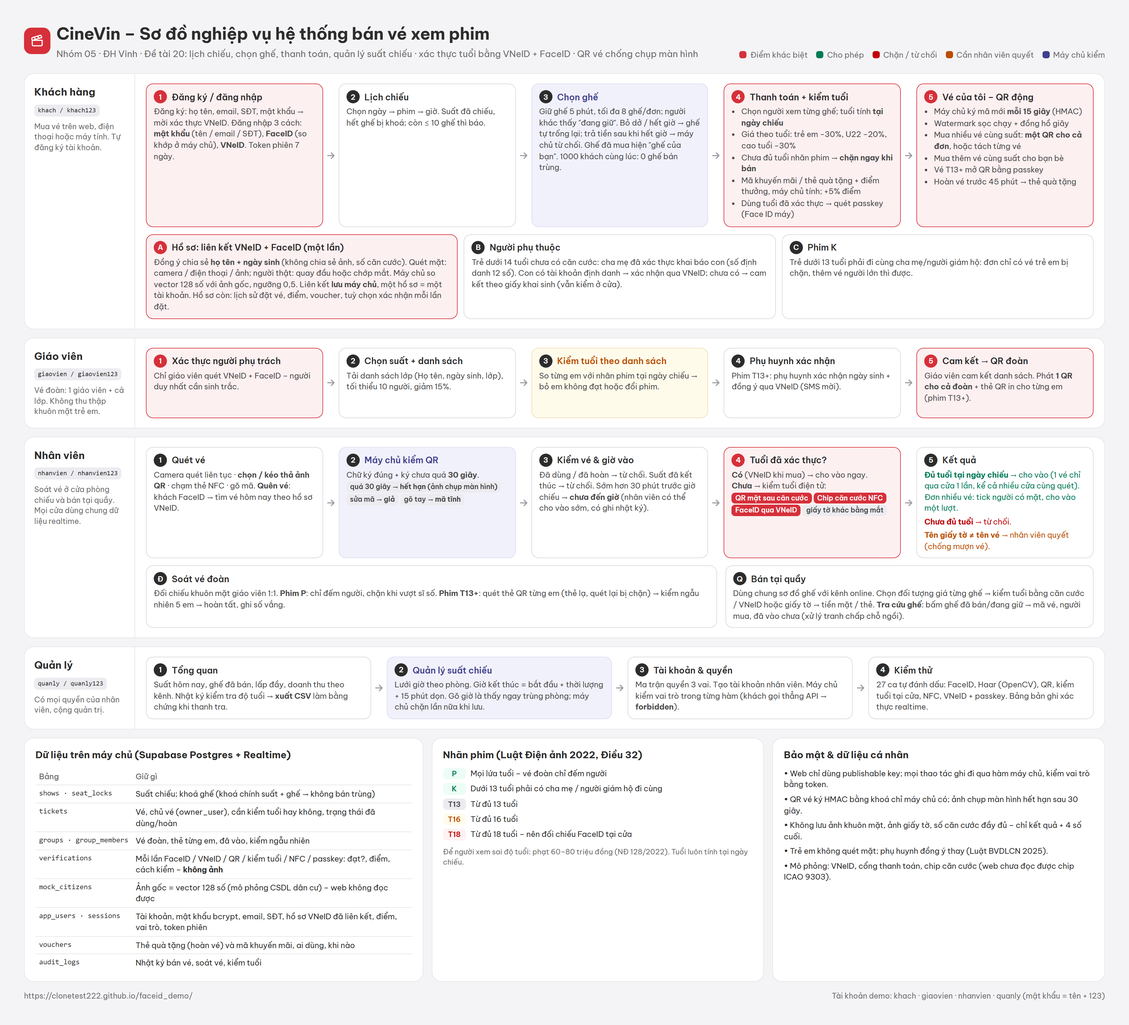
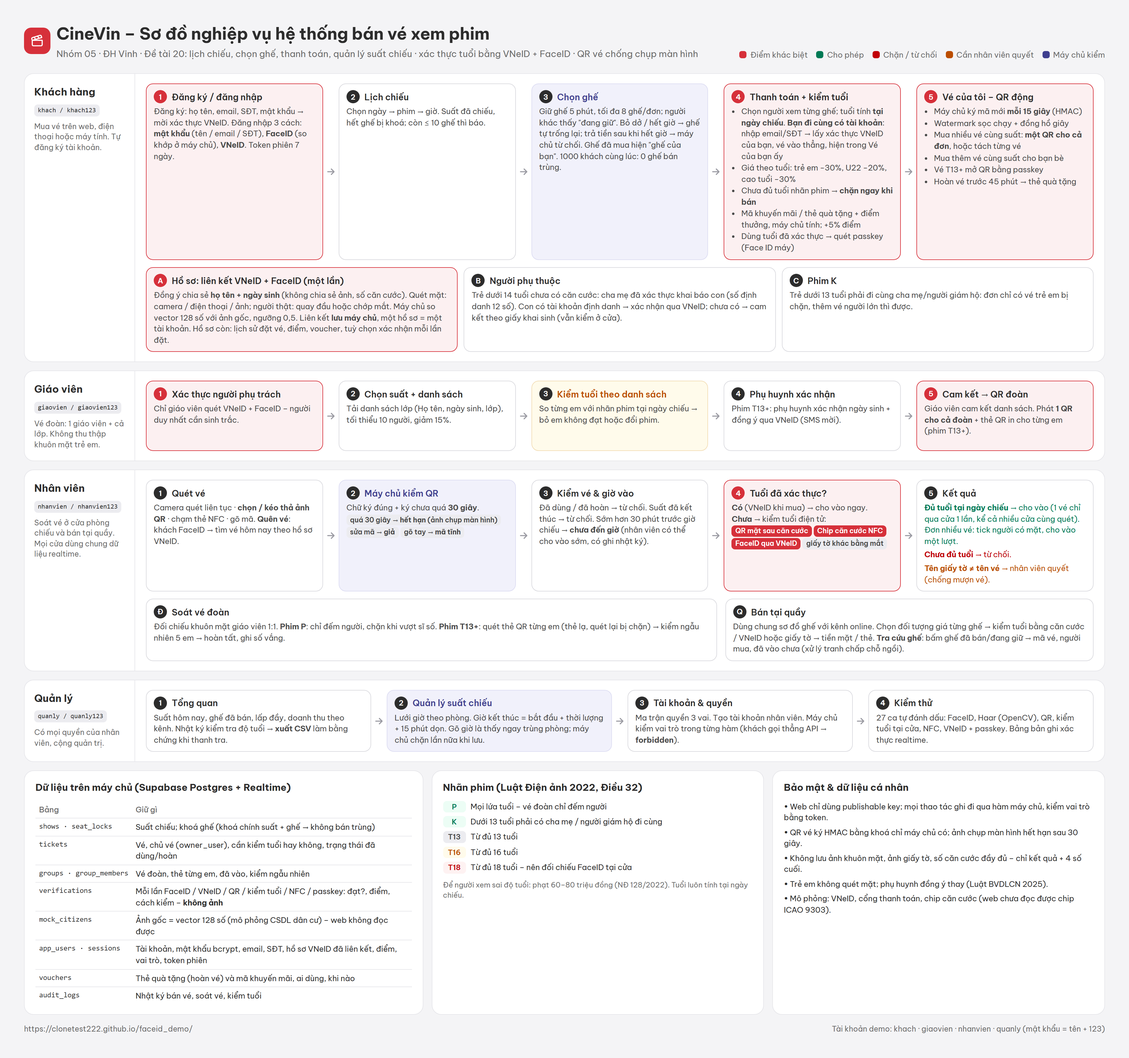
Bạn đi cùng có tài khoản: lấy xác thực VNeID của bạn, vé vào thẳng, hiện trong Vé của bạn
- Thanh toán: mục "Bạn đi cùng có tài khoản CineVin" → nhập email/SĐT/tên đăng nhập
  → máy chủ trả tên, đã xác thực VNeID chưa, tuổi tại ngày chiếu (không lộ ngày sinh,
  không tra được tài khoản nhân viên)
- Bán đơn: máy chủ chốt vé của bạn đã xác thực → verified, không kiểm tuổi ở cửa;
  chưa đủ tuổi nhãn phim → chặn; chưa xác thực → kiểm giấy tờ tại cửa
- Vé gắn viewer_user: hiện trong "Vé của tôi" của bạn kèm QR riêng, ghi "do @… mua cho bạn";
  bạn quên vé vẫn FaceID tìm được; QR cả đơn chỉ gom vé mình là chủ
- Migration 005 thêm companion_check, _apply_companions, ticket_qr cho viewer; sqltest 53 ca

diff --git a/js/views-customer.js b/js/views-customer.js
@@ -113,14 +113,18 @@ function vThanhToan() {
   const sh = show(d.showId), f = film(sh.filmId);
   if (!d.assign || d.assign.length !== d.seats.length) d.assign = d.seats.map((_, i) => ({ viewer: { kind: S.user.linked && i === 0 ? "self" : "other" } }));
   const chk = checkOrder(sh, d.assign); let total = 0;
-  const opts = [["other", "Người đi cùng (chưa xác thực)"], ["self", `Tôi – ${S.user.name}${S.user.linked ? "" : " (chưa xác thực)"}`], ...S.dependents.map(x => ["dep:" + x.id, `Con – ${x.name} (${ageAt(x.dob, sh.start)} tuổi)`])];
+  const friendPending = d.assign.some(a => a.viewer.kind === "friend" && !a.viewer.user);
+  const opts = [["other", "Người đi cùng (chưa xác thực)"], ["self", `Tôi – ${S.user.name}${S.user.linked ? "" : " (chưa xác thực)"}`], ...S.dependents.map(x => ["dep:" + x.id, `Con – ${x.name} (${ageAt(x.dob, sh.start)} tuổi)`]), ...(Remote.v5 ? [["friend", "Bạn đi cùng có tài khoản CineVin…"]] : [])];
   const rows = d.seats.map((sid, i) => {
     const a = d.assign[i], r = chk.res[i], aud = audience(r.verified || r.level === "Cam kết" ? r.age : null), price = seatPrice(sh, sid) * (1 - aud.disc);
     if (!r.block) total += price;
     const val = a.viewer.kind === "dep" ? "dep:" + a.viewer.depId : a.viewer.kind;
+    const fr = a.viewer.kind === "friend" ? (a.viewer.user
+        ? `<div class="mt-2 flex items-center gap-2 rounded-xl border border-border p-2 text-sm">${avatar(a.viewer.name)}<span class="min-w-0 flex-1"><span class="block truncate font-medium">${esc(a.viewer.name)} <span class="font-mono text-xs text-muted">@${esc(a.viewer.user)}</span></span><span class="block text-xs text-muted">${a.viewer.verified ? `Đã xác thực VNeID · ${a.viewer.age} tuổi tại ngày chiếu · vé vào thẳng` : "Chưa xác thực VNeID – kiểm tra giấy tờ tại cửa"}</span></span>${a.viewer.verified ? tone("VNeID", "ok") : tone("Chưa xác thực", "warn")}<button type="button" class="${B.icon} size-8" data-act="friend-clear" data-i="${i}" aria-label="Bỏ">${ic("x")}</button></div>`
+        : `<div class="mt-2 flex gap-2"><input id="friend-${i}" placeholder="Email, SĐT hoặc tên đăng nhập của bạn" autocapitalize="none" class="${INPUT}"><button type="button" class="${B.outline} min-h-11 md:min-h-10 shrink-0" data-act="friend-check" data-i="${i}">Kiểm tra</button></div><p class="mt-1 text-xs text-muted">Vé sẽ hiện trong “Vé của tôi” của bạn ấy; đã xác thực VNeID thì ở cửa không cần giấy tờ.</p>`) : "";
     return `<div class="grid gap-2 border-b border-border py-3 last:border-0 sm:grid-cols-[56px_minmax(0,1fr)_auto] sm:items-center sm:gap-3">
       <span class="font-mono text-sm font-medium">${sid}</span>
-      <div class="min-w-0">${selectBox("viewer-" + i, opts, val, { act: "assign", extra: `data-i="${i}"` })}<p class="mt-1 text-xs ${r.block ? "text-[var(--error-text)]" : "text-muted"}">${r.block ? esc(r.reason) : r.needDoc ? esc(r.reason) : r.verified ? `Đã xác thực · ${aud.label}` : aud.label}</p></div>
+      <div class="min-w-0">${selectBox("viewer-" + i, opts, val, { act: "assign", extra: `data-i="${i}"` })}${fr}<p class="mt-1 text-xs ${r.block ? "text-[var(--error-text)]" : "text-muted"}">${a.viewer.kind === "friend" && !a.viewer.user ? "Nhập tài khoản của bạn đi cùng rồi bấm Kiểm tra." : r.block ? esc(r.reason) : r.needDoc ? esc(r.reason) : r.verified ? `Đã xác thực · ${aud.label}` : aud.label}</p></div>
       <span class="text-right text-sm tabular-nums ${r.block ? "text-muted line-through" : ""}">${vnd(price)}</span></div>`;
   }).join("");
   d.gross = total;
@@ -149,7 +153,7 @@ function vThanhToan() {
           ${promo}
           <div class="mt-4 grid gap-1 border-t border-border pt-4">${disc || usePts ? `<div class="flex items-center justify-between text-sm text-muted"><span>Giá vé</span><span class="tabular-nums">${vnd(total)}</span></div>` : ""}<div class="flex items-center justify-between"><span class="font-medium">Tổng thanh toán</span><span class="text-lg font-semibold tabular-nums">${vnd(d.total)}</span></div></div>
           ${S.user.confirmEvery && S.user.passkey ? `<p class="mt-2 flex items-center gap-1.5 text-xs text-muted">${ic("fingerprint", "size-3.5")}Sẽ xác nhận bằng ${esc(Passkey.label())} khi bấm thanh toán.</p>` : ""}
-          <button type="button" class="${B.primary} mt-3 w-full min-h-11 md:min-h-10" data-act="pay-ok" ${chk.ok ? "" : "disabled"}>Thanh toán ${vnd(d.total)}</button>
+          <button type="button" class="${B.primary} mt-3 w-full min-h-11 md:min-h-10" data-act="pay-ok" ${chk.ok && !friendPending ? "" : "disabled"}>Thanh toán ${vnd(d.total)}</button>
           <p class="mt-2 text-center text-xs text-muted">Cổng thanh toán mô phỏng – không trừ tiền thật.</p>`)}
       </aside>
     </div>`;
@@ -202,13 +206,14 @@ function vVe() {
   const upcoming = ts.filter(t => t.status === "valid" && endOf(show(t.showId)) > new Date());
   const t = ts.find(x => x.code === S.view.tk) || upcoming[0] || ts[ts.length - 1], sh = show(t.showId), f = film(sh.filmId);
   // nhiều vé cùng suất (mua cho bạn bè)
-  const sameShow = ts.filter(x => x.showId === t.showId && x.status === t.status);
+  const sameShow = ts.filter(x => x.showId === t.showId && x.status === t.status && x.ownerUser === t.ownerUser);
   // mặc định: MỘT QR cho cả đơn (quét vé nào cũng ra cả đơn ở cửa); "Tách từng vé" để gửi riêng cho bạn bè đến lẻ
   const split = !!S.view.splitQr, grp = sameShow.length > 1;
   const seatTabs = !grp ? "" : split
     ? `<div class="mb-3 -mx-1 overflow-x-auto px-1 scrollbar-clean"><div class="flex w-max items-center gap-1.5"><span class="mr-1 text-xs text-muted">${sameShow.length} vé · ghế</span>${sameShow.map(x => `<button type="button" data-act="ticket-pick" data-code="${x.code}" aria-pressed="${x === t}" class="h-8 cursor-pointer rounded-full px-3 text-sm tabular-nums ${x === t ? "bg-foreground text-surface" : "bg-secondary hover:bg-secondary-hover"}">${esc(x.seat)}</button>`).join("")}<button type="button" data-act="qr-split" class="ml-1 h-8 cursor-pointer rounded-full border border-border-strong px-3 text-xs hover:bg-button-hover">Gộp lại</button></div></div>`
     : `<div class="mb-3 flex items-start gap-3 rounded-xl bg-background p-3"><span class="grid size-9 shrink-0 place-items-center rounded-lg bg-surface text-foreground">${ic("users")}</span><span class="min-w-0 flex-1"><span class="block text-sm font-medium">1 QR cho cả đơn · ${sameShow.length} vé</span><span class="block text-xs text-muted">Ghế ${esc(sameShow.map(x => x.seat).join(", "))}. Nhân viên quét một lần, cả nhóm cùng vào.</span></span><button type="button" data-act="qr-split" class="shrink-0 text-xs font-medium underline underline-offset-2">Tách từng vé</button></div>`;
   const info = `<div class="flex items-start gap-3">${poster(f, "h-16 w-11 shrink-0")}<div class="min-w-0 flex-1"><div class="flex items-center gap-2"><h2 class="truncate text-base font-semibold">${esc(f.title)}</h2>${rate(f.rating)}</div><p class="text-sm text-muted">${dayLabel(sh.start)} · ${hhmm(sh.start)} · ${room(sh.roomId).name}</p></div></div>
+    ${t.viewerUser && t.viewerUser === Auth.user.username && t.ownerUser !== Auth.user.username ? `<p class="mt-3 flex items-center gap-1.5 text-xs text-muted">${ic("gift", "size-3.5")}Vé do <b class="font-mono">@${esc(t.ownerUser)}</b> mua cho bạn.</p>` : t.viewerUser && t.ownerUser === Auth.user.username ? `<p class="mt-3 flex items-center gap-1.5 text-xs text-muted">${ic("user-check", "size-3.5")}Vé của bạn đi cùng <b>${esc(t.viewerName)}</b> (<span class="font-mono">@${esc(t.viewerUser)}</span>)${t.verified ? " · đã xác thực, vào thẳng" : " · kiểm tuổi ở cửa"}.</p>` : ""}
     <dl class="mt-4 grid grid-cols-3 gap-3 text-sm"><div><dt class="text-xs text-muted">Ghế</dt><dd class="font-medium">${grp && !split ? esc(sameShow.map(x => x.seat).join(", ")) : esc(t.seat)}</dd></div><div><dt class="text-xs text-muted">Mã vé</dt><dd class="font-mono font-medium">${t.code}</dd></div><div><dt class="text-xs text-muted">Tuổi</dt><dd class="font-medium">${t.needDoc ? "Kiểm tra tại cửa" : t.verified ? "Đã xác minh" : RATINGS[f.rating] ? "Kiểm tra tại cửa" : "Không giới hạn"}</dd></div></dl>
     ${new Date(sh.start) > new Date() || endOf(sh) > new Date() ? `<div class="mt-4 flex flex-wrap items-center justify-between gap-2">
       ${new Date(sh.start) > new Date() && freeSeats(sh) > 0 ? `<button type="button" class="${B.outline}" data-act="buy-more" data-show="${sh.id}">${ic("user-plus")}Mua thêm vé cùng suất</button>` : `<span class="text-xs text-muted">${freeSeats(sh) === 0 ? "Suất đã hết ghế" : "Suất đang chiếu"}</span>`}

diff --git a/js/app.js b/js/app.js
@@ -422,6 +422,12 @@ const A = {
     try { const v = await Remote.rpc("voucher_check", { p_token: Auth.token, p_code: code }); d.voucher = v; toast(`Áp dụng ${v.kind === "gift" ? "thẻ quà tặng " + vnd(v.amount) : "giảm " + v.percent + "%"}`); }
     catch (e) { d.voucher = null; toast(Auth.message(e), "bad"); }
     save(); render(); },
+  async "friend-check"(el) {
+    const i = +el.dataset.i, d = S.draft, idv = ($("#friend-" + i).value || "").trim(); if (!idv) return toast("Nhập email, SĐT hoặc tên đăng nhập của bạn đi cùng");
+    try { const f = await Remote.rpc("companion_check", { p_token: Auth.token, p_id: idv, p_show: d.showId }); d.assign[i] = { viewer: { kind: "friend", user: f.username, name: f.name, verified: !!f.verified, age: f.age } }; }
+    catch (e) { return toast(Auth.message(e), "bad"); }
+    save(); render(); },
+  "friend-clear"(el) { S.draft.assign[+el.dataset.i] = { viewer: { kind: "friend" } }; save(); render(); },
   "voucher-clear"() { S.draft.voucher = null; save(); render(); },
   "points-use"(el) { const d = S.draft, max = Math.min(S.user.points || 0, Math.floor(Math.max(0, (d.gross || 0) - (d.discount || 0)) / 1000)); d.points = el.dataset.v === "max" ? max : 0; save(); render(); },
   async "gate-noticket"() {
@@ -468,11 +474,13 @@ const A = {
     chk.res.forEach((r, i) => log("age", `Đơn ${d.id} ghế ${d.seats[i]} – ${f.rating} – ${r.name}: ${r.block ? r.reason : r.needDoc || (pkFallback && r.verified) ? "cần kiểm tra giấy tờ" : "đạt"}`, !r.block));
     const tks = d.seats.map((sid, i) => { const r = chk.res[i], aud = audience(r.verified || r.level === "Cam kết" ? r.age : null), price = seatPrice(sh, sid) * (1 - aud.disc); pts += Math.round(price * 0.05 / 1000);
       const nd = r.needDoc || (pkFallback && r.verified && RATINGS[f.rating] > 0);
-      return { code: rid("V"), orderId: d.id, owner: "user", ownerUser: Auth.user.username, showId: d.showId, seat: sid, viewerName: r.name, aud: aud.label, verified: r.verified, needDoc: nd, reason: pkFallback && r.verified && !r.needDoc ? "Thiết bị không xác nhận chính chủ bằng sinh trắc – kiểm tra giấy tờ tại cửa" : r.reason, price, status: "valid", channel: "Online" }; });
+      return { code: rid("V"), orderId: d.id, owner: "user", ownerUser: Auth.user.username, viewerUser: r.user || null, showId: d.showId, seat: sid, viewerName: r.name, aud: aud.label, verified: r.verified, needDoc: nd, reason: pkFallback && r.verified && !r.needDoc ? "Thiết bị không xác nhận chính chủ bằng sinh trắc – kiểm tra giấy tờ tại cửa" : r.reason, price, status: "valid", channel: "Online" }; });
     el.disabled = true;
-    const args = { p_show: d.showId, p_hold: d.id, p_tickets: tks.map(t => ({ code: t.code, order_id: t.orderId, device_id: Remote.DEVICE, seat: t.seat, viewer_name: t.viewerName, aud: t.aud, verified: t.verified, need_doc: t.needDoc, reason: t.reason, price: t.price, channel: t.channel })) };
+    const args = { p_show: d.showId, p_hold: d.id, p_tickets: tks.map(t => ({ code: t.code, order_id: t.orderId, device_id: Remote.DEVICE, seat: t.seat, viewer_name: t.viewerName, viewer_user: t.viewerUser, aud: t.aud, verified: t.verified, need_doc: t.needDoc, reason: t.reason, price: t.price, channel: t.channel })) };
     if (Remote.v5) { args.p_voucher = d.voucher ? d.voucher.code : null; args.p_points = d.points || 0; }
-    const ok = await call("sell_order", args);
+    let ok;
+    if (ON()) { try { ok = await rpcAuth("sell_order", args); } catch (e) { el.disabled = false; if (/companion_/.test(e.message)) return toast(Auth.message(e), "bad"); if (/hold_expired/.test(e.message)) { releaseDraft("Ghế đã hết hạn giữ"); save(); return go("lich"); } return toast(Auth.message(e), "bad"); } }
+    else ok = true;
     if (!ok) { releaseDraft(); save(); return go("lich"); }
     tks.forEach(t => { S.seats[d.showId][t.seat] = { st: "sold" }; const ex = S.tickets.find(x => x.code === t.code); ex ? Object.assign(ex, { ownerUser: t.ownerUser }) : S.tickets.push(t); });
     if (ok && typeof ok === "object" && ok.points != null) { pts = ok.points_earned; S.user.points = ok.points; Auth.setPoints(ok.points); } else S.user.points += pts;
@@ -718,7 +726,7 @@ const A = {
 };
 /* ô chọn tuỳ biến đổi giá trị */
 const SEL = {
-  assign(box, v) { const d = S.draft, i = +box.dataset.i; d.assign[i] = { viewer: v.startsWith("dep:") ? { kind: "dep", depId: v.slice(4) } : { kind: v } }; save(); render(); },
+  assign(box, v) { const d = S.draft, i = +box.dataset.i; d.assign[i] = { viewer: v.startsWith("dep:") ? { kind: "dep", depId: v.slice(4) } : { kind: v } }; save(); render(); if (v === "friend") { const x = $("#friend-" + i); x && x.focus(); } },
   ns(box, v) { const f = S.view.ns; f[box.dataset.select.slice(3)] = v; if (box.dataset.select === "ns-day") S.view.sday = v; save(); render(); },
   "pos-show"(box, v) { const p = S.view.pos; p.seats.forEach(sid => { delete S.seats[p.showId]?.[sid]; call("release_seat", { p_show: p.showId, p_seat: sid, p_hold: "POS-" + Remote.DEVICE }); }); S.view.pos = { showId: v || null, seats: [], types: {}, docs: {} }; save(); render(); },
   "pos-type"(box, v) { S.view.pos.types[box.dataset.seat] = v; delete S.view.pos.docs[box.dataset.seat]; save(); render(); },

diff --git a/docs/nghiep-vu.html b/docs/nghiep-vu.html
@@ -84,7 +84,7 @@
         <div class="arrow"><svg viewBox="0 0 24 24" fill="none" stroke="currentColor" stroke-width="2.4" stroke-linecap="round" stroke-linejoin="round"><path d="M5 12h14M13 6l6 6-6 6"/></svg></div>
         <div class="step info"><h3><span class="n">3</span>Chọn ghế</h3><p>Giữ ghế 5 phút, tối đa 8 ghế/đơn; người khác thấy "đang giữ". Bỏ dở / hết giờ → ghế tự trống lại; trả tiền sau khi hết giờ → máy chủ từ chối. Ghế đã mua hiện "ghế của bạn". 1000 khách cùng lúc: 0 ghế bán trùng.</p></div>
         <div class="arrow"><svg viewBox="0 0 24 24" fill="none" stroke="currentColor" stroke-width="2.4" stroke-linecap="round" stroke-linejoin="round"><path d="M5 12h14M13 6l6 6-6 6"/></svg></div>
-        <div class="step key"><h3><span class="n">4</span>Thanh toán + kiểm tuổi</h3><ul><li>Chọn người xem từng ghế; tuổi tính <b>tại ngày chiếu</b></li><li>Giá theo tuổi: trẻ em −30%, U22 −20%, cao tuổi −30%</li><li>Chưa đủ tuổi nhãn phim → <b>chặn ngay khi bán</b></li><li>Mã khuyến mãi / thẻ quà tặng + điểm thưởng, máy chủ tính; +5% điểm</li><li>Dùng tuổi đã xác thực → quét passkey (Face ID máy)</li></ul></div>
+        <div class="step key"><h3><span class="n">4</span>Thanh toán + kiểm tuổi</h3><ul><li>Chọn người xem từng ghế; tuổi tính <b>tại ngày chiếu</b>. <b>Bạn đi cùng có tài khoản</b>: nhập email/SĐT → lấy xác thực VNeID của bạn, vé vào thẳng, hiện trong Vé của bạn ấy</li><li>Giá theo tuổi: trẻ em −30%, U22 −20%, cao tuổi −30%</li><li>Chưa đủ tuổi nhãn phim → <b>chặn ngay khi bán</b></li><li>Mã khuyến mãi / thẻ quà tặng + điểm thưởng, máy chủ tính; +5% điểm</li><li>Dùng tuổi đã xác thực → quét passkey (Face ID máy)</li></ul></div>
         <div class="arrow"><svg viewBox="0 0 24 24" fill="none" stroke="currentColor" stroke-width="2.4" stroke-linecap="round" stroke-linejoin="round"><path d="M5 12h14M13 6l6 6-6 6"/></svg></div>
         <div class="step key"><h3><span class="n">5</span>Vé của tôi – QR động</h3><ul><li>Máy chủ ký mã mới <b>mỗi 15 giây</b> (HMAC)</li><li>Watermark sọc chạy + đồng hồ giây</li><li>Mua nhiều vé cùng suất: <b>một QR cho cả đơn</b>, hoặc tách từng vé</li><li>Mua thêm vé cùng suất cho bạn bè</li><li>Vé T13+ mở QR bằng passkey</li><li>Hoàn vé trước 45 phút → thẻ quà tặng</li></ul></div>
       </div>

diff --git a/js/data.js b/js/data.js
@@ -93,7 +93,8 @@ const film = id => S.films.find(f => f.id === id) || { id, title: "Phim mới", 
 const room = id => S.rooms.find(r => r.id === id);
 const show = id => S.shows.find(s => s.id === id);
 const ON = () => Remote.online;
-const mine = t => Auth.user && (t.ownerUser ? t.ownerUser === Auth.user.username : false);
+/** Vé của tôi: tôi mua, hoặc bạn mua cho tôi (viewer_user) */
+const mine = t => !!Auth.user && (t.ownerUser === Auth.user.username || t.viewerUser === Auth.user.username);
 
 /* Hàm máy chủ có bản kiểm tra vai trò (migration 004): gọi bản đó kèm token */
 const RPC4 = { sell_order: "sell_order_u", refund_ticket: "refund_ticket_u", create_group: "create_group_u", admit_ticket: "admit_ticket_s", scan_member: "scan_member_s", member_spot: "member_spot_s", group_update: "group_update_s", add_show: "add_show_s", reset_demo: "reset_demo_s", reset_citizen_face: "reset_citizen_face_s" };
@@ -131,6 +132,8 @@ function audience(age) { if (age == null) return { label: "Người lớn", disc
 function viewerInfo(v, when) {
   if (v.kind === "self") return S.user.linked ? { name: S.user.name, age: ageAt(S.user.dob, when), verified: true, level: "VNeID" } : { name: S.user.name + " (chưa xác thực)", age: null, verified: false, level: null };
   if (v.kind === "dep") { const d = S.dependents.find(x => x.id === v.depId); return d ? { name: d.name, age: ageAt(d.dob, when), verified: d.level === "VNeID", level: d.level } : { name: "?", age: null, verified: false }; }
+  // bạn đi cùng có tài khoản: máy chủ đã trả tên, đã xác thực chưa, tuổi tại ngày chiếu
+  if (v.kind === "friend") return v.verified ? { name: v.name, age: v.age, verified: true, level: "VNeID", user: v.user } : { name: v.name + " (chưa xác thực)", age: null, verified: false, level: null, user: v.user };
   return { name: "Người đi cùng", age: null, verified: false, level: null };
 }
 function checkOrder(sh, assigns) {

diff --git a/js/remote.js b/js/remote.js
@@ -9,7 +9,7 @@ const Remote = (() => {
   const emit = () => listeners.forEach(f => f(status));
 
   const mapShow = r => ({ id: r.id, filmId: r.film_id, roomId: r.room_id, start: r.start_at, end: r.end_at });
-  const mapTicket = r => ({ code: r.code, orderId: r.order_id, ownerUser: r.owner_user || null, device: r.device_id, owner: r.device_id === DEVICE && r.channel === "Online" ? "user" : "other", showId: r.show_id, seat: r.seat, viewerName: r.viewer_name, aud: r.aud, verified: r.verified, needDoc: r.need_doc, reason: r.reason, price: Number(r.price), status: r.status, channel: r.channel });
+  const mapTicket = r => ({ code: r.code, orderId: r.order_id, ownerUser: r.owner_user || null, viewerUser: r.viewer_user || null, device: r.device_id, owner: r.device_id === DEVICE && r.channel === "Online" ? "user" : "other", showId: r.show_id, seat: r.seat, viewerName: r.viewer_name, aud: r.aud, verified: r.verified, needDoc: r.need_doc, reason: r.reason, price: Number(r.price), status: r.status, channel: r.channel });
   const mapMember = m => ({ id: m.card, card: m.card, idx: m.idx, name: m.name, dob: m.dob, cls: m.cls, entered: m.entered, spot: m.spot });
   const mapGroup = (g, members) => ({ id: g.code, code: g.code, showId: g.show_id, seats: g.seats, teacher: g.teacher, teacherKey: g.teacher_key, org: g.org, total: Number(g.total), status: g.status, counted: g.counted, enteredCount: g.entered_count, faceOk: g.face_ok, faceScore: g.face_score, students: members.map(mapMember).sort((a, b) => a.idx - b.idx) });
   const mapLog = l => ({ t: l.t, type: l.type, msg: l.msg, ok: l.ok });

diff --git a/js/auth.js b/js/auth.js
@@ -29,6 +29,7 @@ const Auth = (() => {
     face_mismatch: "Khuôn mặt không khớp với chủ tài khoản.",
     vneid_not_linked: "Hồ sơ VNeID này chưa gắn với tài khoản nào – đăng ký rồi liên kết VNeID ở Tài khoản.",
     voucher_unknown: "Không có mã này.", voucher_used: "Mã đã dùng rồi.", voucher_expired: "Mã đã hết hạn.", voucher_not_yours: "Thẻ quà tặng này của tài khoản khác.", voucher_invalid: "Mã giảm giá không còn hợp lệ.",
+    companion_unknown: "Không tìm thấy tài khoản khách hàng này.", companion_self: "Đó là tài khoản của bạn – chọn “Tôi”.", companion_underage: "Bạn đi cùng chưa đủ tuổi xem phim này (theo hồ sơ VNeID của họ).",
     forbidden: "Tài khoản không có quyền làm việc này.",
     not_logged_in: "Phiên đăng nhập đã hết – đăng nhập lại.",
   };

diff --git a/README.md b/README.md
@@ -31,6 +31,7 @@ Mật khẩu băm bcrypt trên máy chủ; mỗi hàm nhạy cảm nhận token 
 | Đăng ký | Họ tên, email, SĐT, tên đăng nhập, mật khẩu (kiểm định dạng và trùng ở máy chủ). Tạo xong được mời **xác thực VNeID + FaceID** ngay, có thể để sau |
 | Đăng nhập | **Mật khẩu** (tên đăng nhập / email / SĐT) · **FaceID** (camera hoặc ảnh → máy chủ so vector với ảnh gốc của hồ sơ VNeID đã liên kết; thất bại cũng ghi bản ghi) · **VNeID** (mô phỏng app VNeID trả hồ sơ đã đồng ý chia sẻ) |
 | Hồ sơ | Liên kết VNeID **lưu trên máy chủ** (đổi thiết bị vẫn còn; một hồ sơ chỉ gắn một tài khoản); điểm thưởng; lịch sử đặt vé; voucher; tuỳ chọn "xác nhận mỗi lần đặt vé bằng passkey" |
+| Người đi cùng | Ở bước thanh toán chọn "Bạn đi cùng có tài khoản" → nhập email/SĐT/tên đăng nhập → máy chủ trả tên, đã xác thực VNeID chưa, tuổi tại ngày chiếu (không lộ ngày sinh). Bạn đã xác thực → vé `verified`, **ở cửa không cần giấy tờ**, chưa đủ tuổi thì chặn ngay; vé hiện trong "Vé của tôi" của bạn đó kèm QR riêng |
 | Đặt vé | Mã khuyến mãi (`CHAONHOM05` −10%) / thẻ quà tặng + điểm thưởng (1 điểm = 1.000 đ) tính ở máy chủ; cộng 5% điểm; phim T13+ dùng tuổi đã xác thực thì quét passkey |
 | Hoàn vé | Tiền vào **thẻ quà tặng** của chính chủ (180 ngày) |
 | Vào rạp | **Một QR cho cả đơn** (mua nhiều vé cùng suất: nhân viên quét một lần, tick người có mặt, cho vào một lượt; "Tách từng vé" khi bạn bè đến lẻ) · kiểm tuổi bằng căn cước/VNeID · **quên vé**: nhân viên bấm "Khách quên vé" → khách FaceID → hệ thống tìm vé hôm nay theo hồ sơ VNeID → cho vào |
@@ -60,9 +61,9 @@ Mật khẩu băm bcrypt trên máy chủ; mỗi hàm nhạy cảm nhận token 
 
 ## Kiểm thử
 - **Trang Kiểm thử** (tài khoản quản lý): 27 ca cho FaceID, Haar, QR, kiểm tuổi tại cửa, NFC, VNeID + passkey, tự đánh dấu Đạt/Không đạt.
-- SQL (PGlite): `node tools/sqltest.mjs` (cần `npm i --prefix tools/.pg @electric-sql/pglite`) – 43 ca: đăng ký/đăng nhập email·SĐT·FaceID·VNeID, liên kết VNeID, voucher, điểm, hoàn vé, vé theo hồ sơ, một QR cho cả đơn.
+- SQL (PGlite): `node tools/sqltest.mjs` (cần `npm i --prefix tools/.pg @electric-sql/pglite`) – 53 ca: đăng ký/đăng nhập email·SĐT·FaceID·VNeID, liên kết VNeID, voucher, điểm, hoàn vé, vé theo hồ sơ, một QR cho cả đơn.
 - Đầu-cuối (Edge headless): đăng nhập 3 vai, chặn quyền, mua vé, QR động, soát vé bằng ảnh/mã, FaceID qua ảnh, Haar.
-- `node tools/e2e-customer.mjs [URL] [ảnh] [thư mục ảnh mặt]`: 27 bước nghiệp vụ khách hàng, gồm cửa soát đơn nhiều vé (cần 005).
+- `node tools/e2e-customer.mjs [URL] [ảnh] [thư mục ảnh mặt]`: 36 bước nghiệp vụ khách hàng, gồm bạn đi cùng có tài khoản và cửa soát đơn nhiều vé (cần 005).
 - `node tools/e2e-more.mjs [URL]`: mua thêm vé cùng suất, một QR cho cả đơn / tách từng vé (10 bước).
 - `node tools/e2e-seats.mjs [URL]`: 13 bước với 2 trình duyệt cùng tranh một suất (đang giữ, đã bán, huỷ, hết hạn giữ, trả tiền muộn, đăng xuất, tra cứu ghế ở quầy).
 - `node tools/e2e-age.mjs [URL]`: 16 bước nghiệp vụ kiểm tuổi tại cửa (QR căn cước 22 tuổi cho vào, 15 tuổi từ chối, mã không phải căn cước, chip, giờ vào cửa, xuất CSV).
